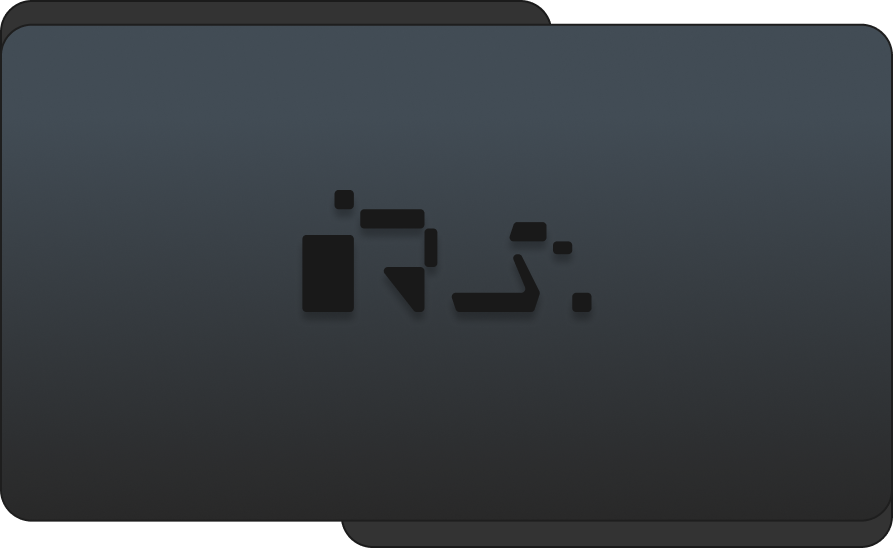
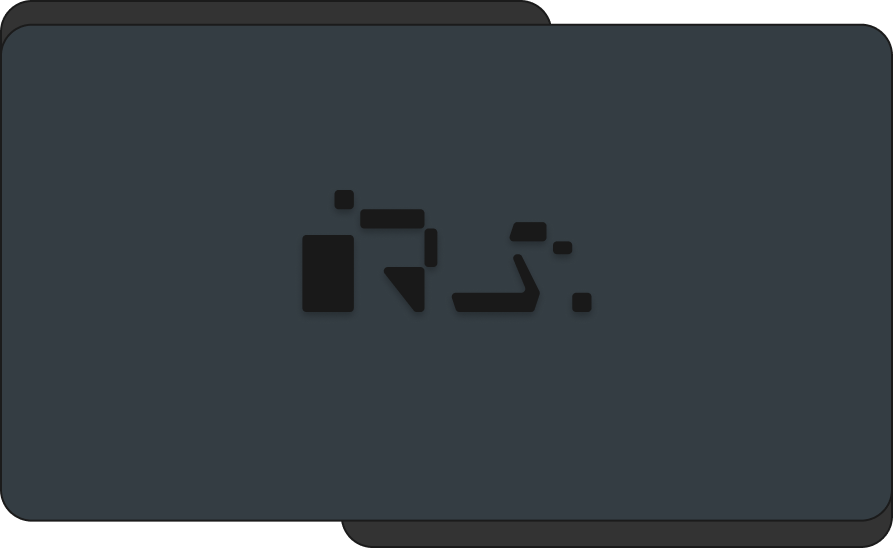
what images: solid colors instead of gradients for webp serving

Changed region(s): [[0.0, 0.8996, 0.9978, 0.9617]]

diff --git a/homepage/src/styles.css b/homepage/src/styles.css
@@ -38,6 +38,7 @@ div{
   --what-project-stack-font-weight: 400;
   
   --focus-outline: rgb(240, 240, 240);
+  --what-project-img-filter: brightness(0.9) contrast(1.05) /*0.9 1.05,  0.96 1.1*/
 }
 
 body.light-theme {
@@ -68,4 +69,5 @@ body.light-theme {
   --what-project-stack-font-weight: 500;
 
   --focus-outline: rgb(13, 13, 13);
+  --what-project-img-filter: brightness(1.15) contrast(1.05) /*1.2 0.95, 1.15 1.05*/
 }

diff --git a/homepage/src/app/what/what.css b/homepage/src/app/what/what.css
@@ -78,6 +78,7 @@
   object-fit: contain;
   display: block;
   transition: opacity 0.7s ease-in-out;
+  filter: var(--what-project-img-filter);
 }
 
 